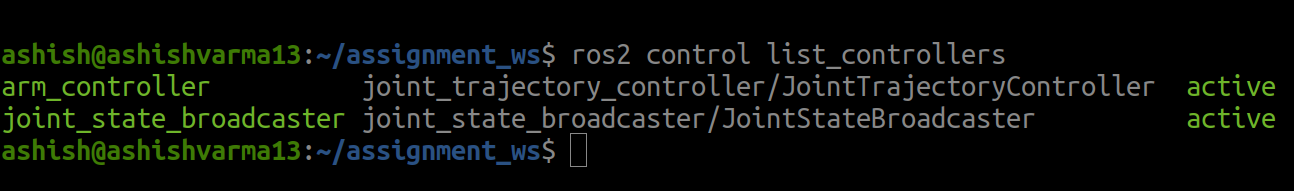
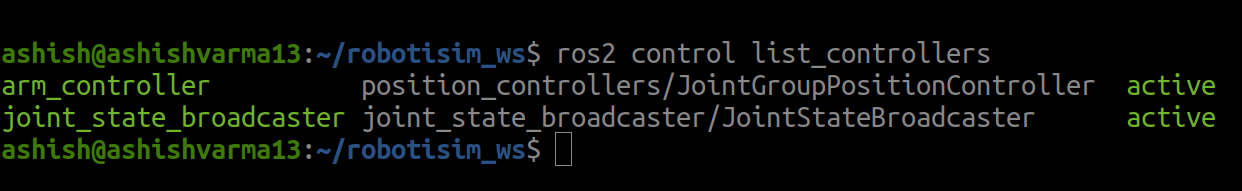
Task_5 Completed added Position Controller

diff --git a/module_5_assignment/Readme.md b/module_5_assignment/Readme.md
@@ -106,21 +106,30 @@
 
    - Termial 2
       ```
-      ros2 topic pub --once /arm_controller/joint_trajectory trajectory_msgs/msg/JointTrajectory "{joint_names: ['base_joint', 'shoulder_joint', 'elbow_joint', 'gripper_joint'], points: [{positions: [-1.57, 1.57, 1.57, 0.1], time_from_start: {sec: 5, nanosec: 0}}]}"
+      ros2 topic pub --once /arm_controller/commands std_msgs/msg/Float64MultiArray "layout:
+      dim: []
+      data_offset: 0
+      data: [-1.57, 1.57, 1.57, 0.1]"
       ```
    ### OUTPUT2
   ![alt text](Task3b.png)
 
    - Termial 2
       ```
-      ros2 topic pub --once /arm_controller/joint_trajectory trajectory_msgs/msg/JointTrajectory "{joint_names: ['base_joint', 'shoulder_joint', 'elbow_joint', 'gripper_joint'], points: [{positions: [1.57, 0.0, 1.57, 0.1], time_from_start: {sec: 5, nanosec: 0}}]}"
+      ros2 topic pub --once /arm_controller/commands std_msgs/msg/Float64MultiArray "layout:
+      dim: []
+      data_offset: 0
+      data: [1.57, 0.0, 1.57, 0.1]"
       ```
    ### OUTPUT3
   ![alt text](Task3c.png)
 
    - Termial 2
       ```
-      ros2 topic pub --once /arm_controller/joint_trajectory trajectory_msgs/msg/JointTrajectory "{joint_names: ['base_joint', 'shoulder_joint', 'elbow_joint', 'gripper_joint'], points: [{positions: [0.0, 0.0, 0.0, 0.0], time_from_start: {sec: 5, nanosec: 0}}]}"
+      ros2 topic pub --once /arm_controller/commands std_msgs/msg/Float64MultiArray "layout:
+      dim: []
+      data_offset: 0
+      data: [0.0, 0.0, 0.0, 0.0]"
       ```
    ### OUTPUT4
   ![alt text](Task3d.png)
